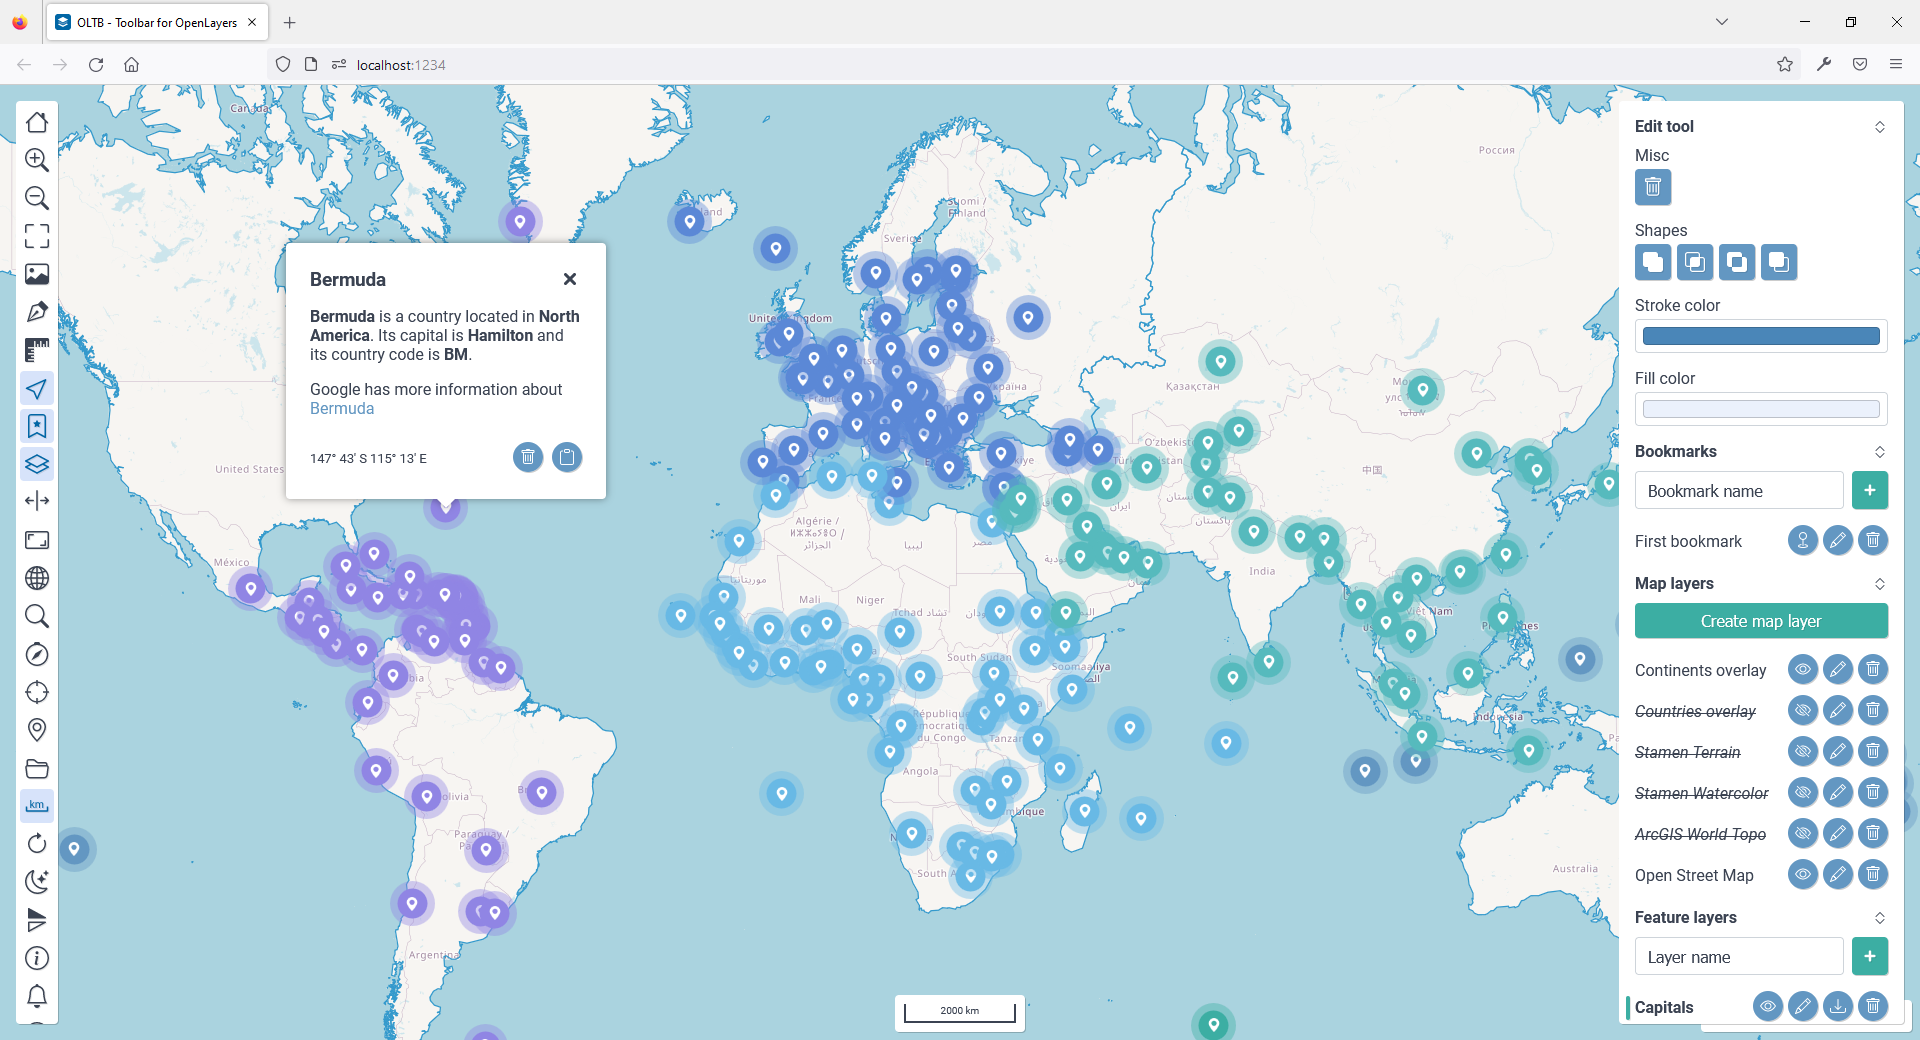
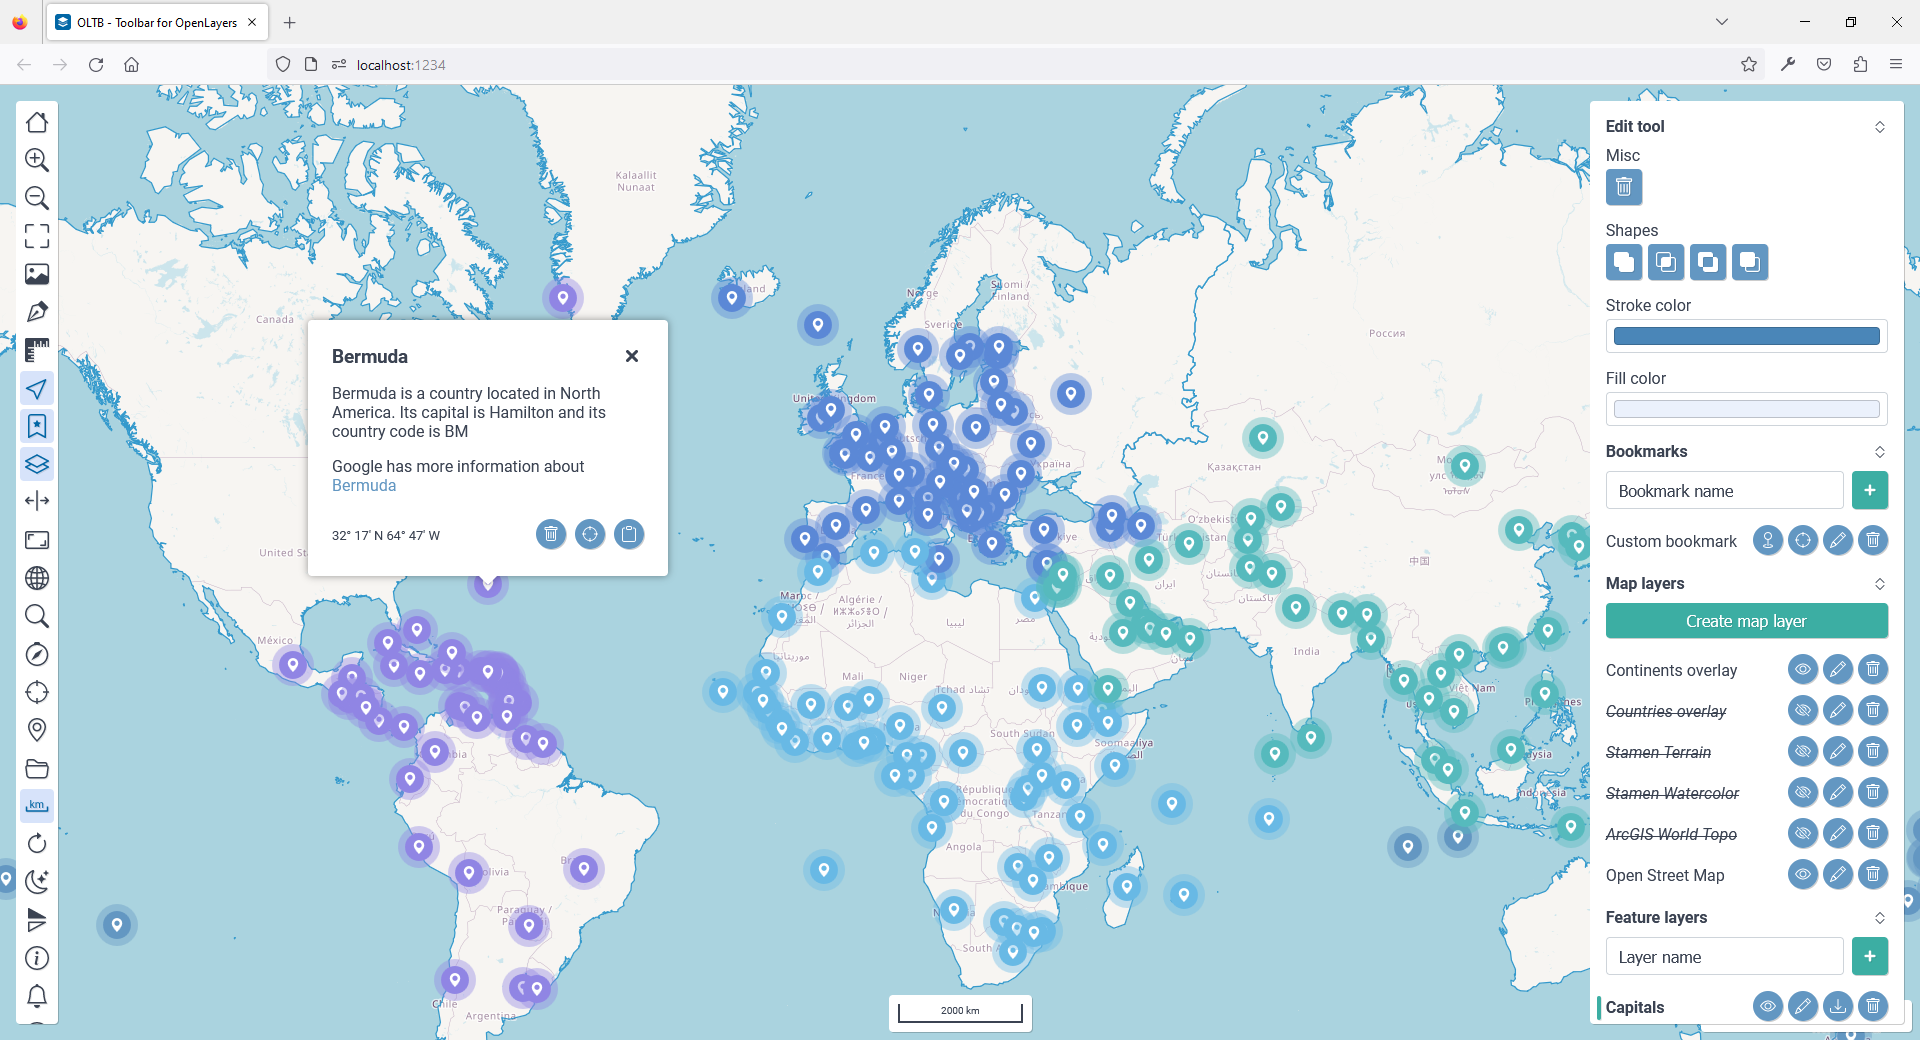
Small bugfix when adding settings from tools, also cleanup for upcoming release

diff --git a/src/oltb/js/tools/CoordinatesTool.js b/src/oltb/js/tools/CoordinatesTool.js
@@ -24,7 +24,6 @@ const FILENAME = 'tools/CoordiantesTool.js';
 const ID_PREFIX = 'oltb-coordinates';
 
 const DefaultOptions = Object.freeze({
-    updateToolboxCoordinatsOnlyOnClick: false,
     click: undefined,
     mapClicked: undefined
 });
@@ -113,7 +112,12 @@ class CoordinatesTool extends Control {
 
         SettingsManager.addSetting(Settings.copyCoordinatesOnClick, {
             state: true, 
-            text: 'Coordinates tool - Copy coordinates on click'
+            text: 'Copy coordinates on click'
+        });
+
+        SettingsManager.addSetting(Settings.updateToolboxCoordinatesOnHover, {
+            state: true, 
+            text: 'Update toolbox coordinates when hover'
         });
 
         window.addEventListener(Events.browser.keyDown, this.onWindowKeyDown.bind(this));
@@ -277,7 +281,7 @@ class CoordinatesTool extends Control {
     onPointerMove(event) {
         this.tooltipCoordinates(event);
 
-        if(!Boolean(this.options.updateToolboxCoordinatsOnlyOnClick)) {
+        if(SettingsManager.getSetting(Settings.updateToolboxCoordinatesOnHover)) {
             this.toolboxCoordinates(event);
         }
     }
@@ -285,7 +289,7 @@ class CoordinatesTool extends Control {
     onMapClick(event) {        
         this.copyCoordinates(event);
 
-        if(Boolean(this.options.updateToolboxCoordinatsOnlyOnClick)) {
+        if(!SettingsManager.getSetting(Settings.updateToolboxCoordinatesOnHover)) {
             this.toolboxCoordinates(event);
         }
 

diff --git a/src/oltb/js/core/managers/SettingsManager.js b/src/oltb/js/core/managers/SettingsManager.js
@@ -83,6 +83,13 @@ class SettingsManager {
     }
 
     static addSetting(key, valueObj) {
+        // Check if there exists a value already in the browser for this setting
+        // Must overwrite the literal value that the tools is adding
+        const state = this.#localStorage[key];
+        if(state !== undefined) {
+            valueObj.state = state;
+        }
+
         DefaultSettings.set(key, structuredClone(valueObj));
         this.#settings.set(key, valueObj);
     }

diff --git a/examples/cdn/index.html b/examples/cdn/index.html
@@ -5,7 +5,7 @@
     <meta http-equiv="X-UA-Compatible" content="IE=edge">
     <meta name="viewport" content="width=device-width, initial-scale=1.0">
     <link rel="icon" type="image/svg+xml" href="./oltb-icon.svg" />
-    <title>Example OLTB v1.0.0-beta3</title>
+    <title>OLTB - Toolbar for OpenLayers</title>
 
     <!-- (1). Import OpenLayers -->
     <script src="https://cdn.jsdelivr.net/npm/ol@v7.1.0/dist/ol.js"></script>

diff --git a/src/oltb/js/helpers/constants/Settings.js b/src/oltb/js/helpers/constants/Settings.js
@@ -8,7 +8,8 @@ const Settings = Object.freeze({
     alwaysNewLayers: 'always.new.layers',
     altShiftDragRotate: 'alt.shift.drag.rotate',
     selectVectorMapShapes: 'select.vector.map.shapes',
-    copyCoordinatesOnClick: 'copy.coordinates.on.click'
+    copyCoordinatesOnClick: 'copy.coordinates.on.click',
+    updateToolboxCoordinatesOnHover: 'update.toolbox.coordinates.on.hover'
 });
 
 export { Settings };

diff --git a/examples/cdn/map.js b/examples/cdn/map.js
@@ -287,7 +287,6 @@ const toolbar = new oltb({
             }
         },
         CoordinatesTool: {
-            updateToolboxCoordinatsOnlyOnClick: false,
             click: function() {
                 console.log('CoordinatesTool clicked');
             },

diff --git a/examples/npm/example-one/map.js b/examples/npm/example-one/map.js
@@ -262,7 +262,6 @@ const toolbar = new OLTB({
             }
         },
         CoordinatesTool: {
-            updateToolboxCoordinatsOnlyOnClick: false,
             click: function() {
                 console.log('CoordinatesTool clicked');
             },

diff --git a/dev/map.js b/dev/map.js
@@ -389,7 +389,6 @@ const map = new Map({
             }
         }),
         new CoordinatesTool({
-            updateToolboxCoordinatsOnlyOnClick: false,
             click: function() {
                 console.log('CoordinatesTool clicked');
             },

diff --git a/examples/npm/example-two/map.js b/examples/npm/example-two/map.js
@@ -385,7 +385,6 @@ const map = new Map({
             }
         }),
         new CoordinatesTool({
-            updateToolboxCoordinatsOnlyOnClick: false,
             click: function() {
                 console.log('CoordinatesTool clicked');
             },

diff --git a/README_INTERNAL.md b/README_INTERNAL.md
@@ -98,7 +98,7 @@ $ bash tasks/dist-examples-setup.sh
 
 # (8). Manually update examples:
 #      - NPM x 2
-#      - CDN
+#      - CDN (also bump ol CDN-links in index.html)
 
 # (9). Verify examples
 $ npm run example:one
@@ -624,7 +624,6 @@ controls: defaultControls({
         }
     }),
     new CoordinatesTool({
-        updateToolboxCoordinatsOnlyOnClick: false,
         click: function() {
             console.log('CoordinatesTool clicked');
         },
